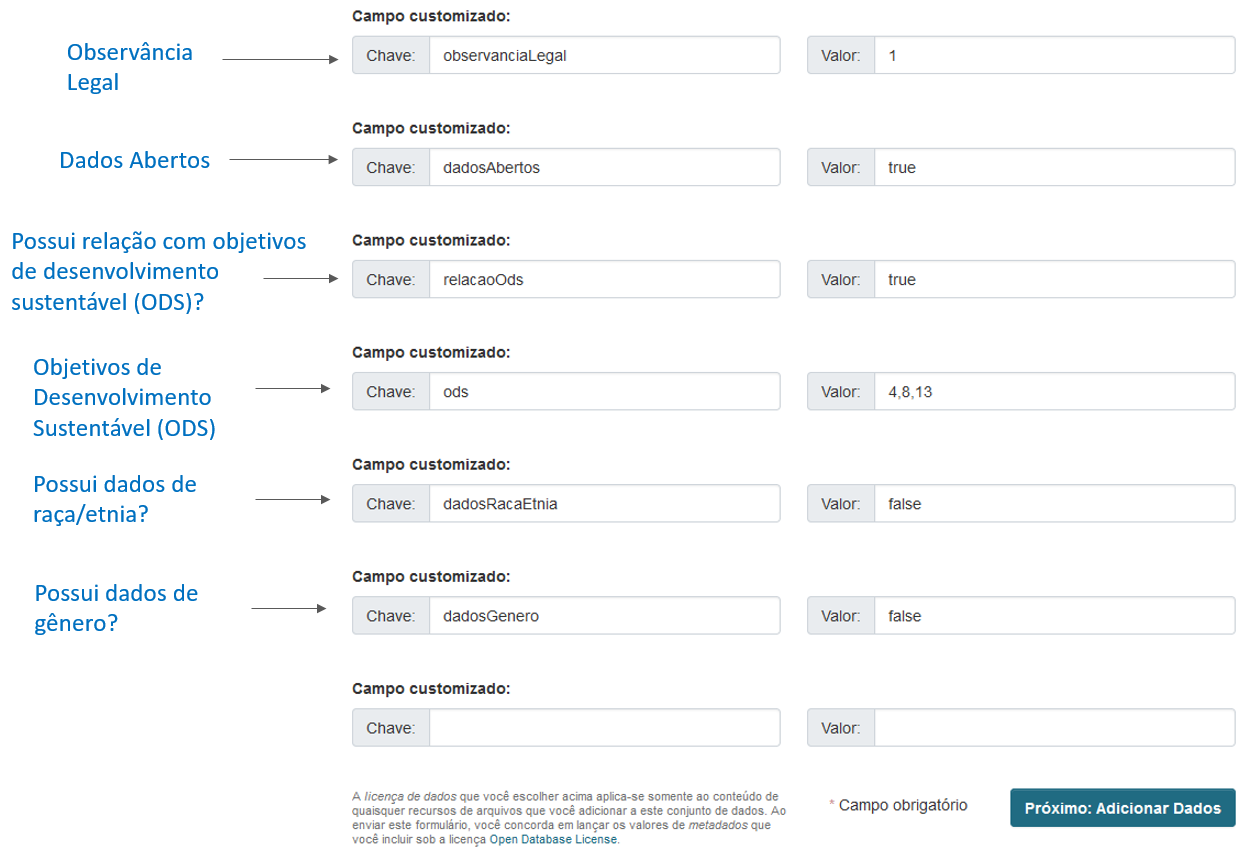
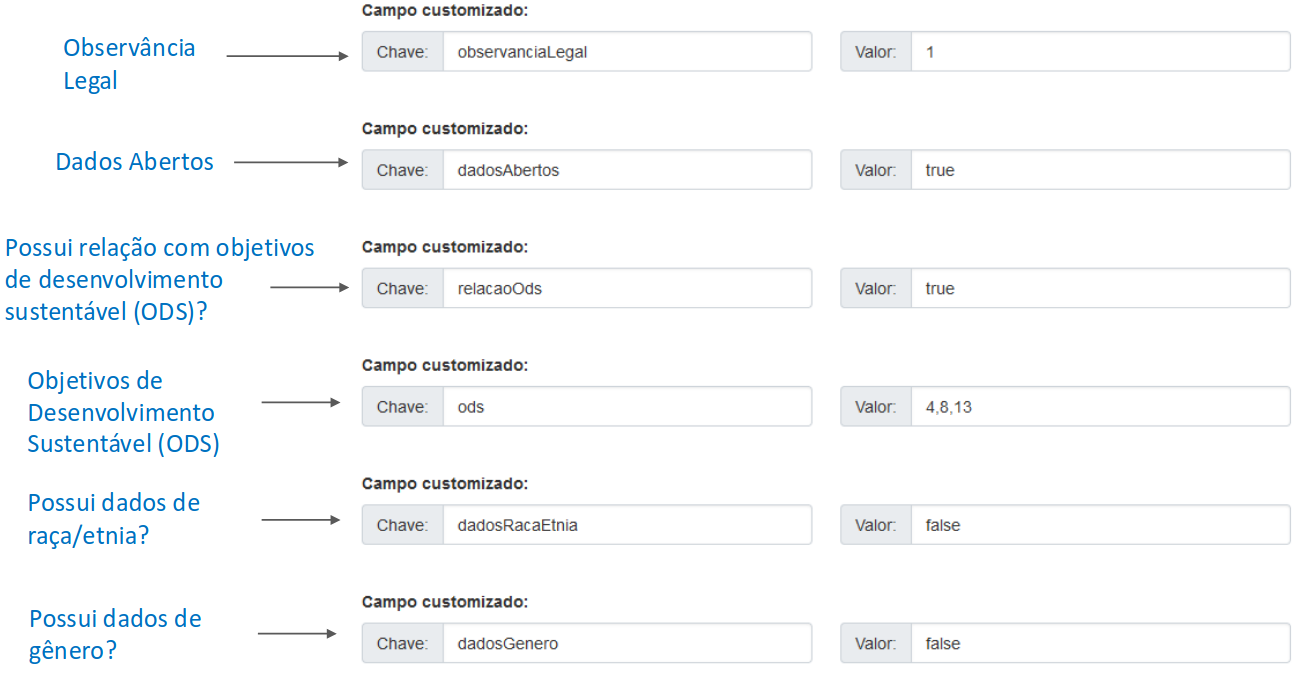
AB#31387 Atualiza documentação de preenchimento manual dos campos no CKAN

diff --git a/PREENCHIMENTO-CKAN.md b/PREENCHIMENTO-CKAN.md
@@ -128,11 +128,17 @@ Os campos devem ser preenchidos com chave e valor exatamente como explicados a s
     * FEDERAL
     * ESTADUAL
     * MUNICIPAL
+    * REGIAO_NORTE
+    * REGIAO_NORDESTE
+    * REGIAO_CENTRO_OESTE
+    * REGIAO_SUDESTE
+    * REGIAO_SUL
+    * INTERNACIONAL
 
 5. Detalhamento da Cobertura Espacial
 
 * Chave: valorCoberturaEspacial
-* Valores possíveis: caso a Cobertura Espacial seja Federal, não é necessário
+* Valores possíveis: caso a Cobertura Espacial seja federal ou regional, não é necessário
 preencher. Caso seja Estadual, preencher com a UF do estado a que se refere (Ex: GO).
 Caso seja Municipal, preencher com o código do município de 6 dígitos definido pelo IBGE (Ver https://www.ibge.gov.br/explica/codigos-dos-municipios.php).
 Notar que se o código tiver 7 dígitos o último é apenas um dígito de verificação e não precisa ser preenchido aqui.
@@ -142,6 +148,7 @@ Notar que se o código tiver 7 dígitos o último é apenas um dígito de verifi
 * Chave: granularidadeEspacial
 * Valores possíveis:
     * FEDERAL
+    * REGIAO
     * ESTADUAL
     * MUNICIPAL
 
@@ -253,6 +260,17 @@ Notar que se o código tiver 7 dígitos o último é apenas um dígito de verifi
     * true
     * false
 
+16. Idioma
+
+* Chave: idioma
+* Valores possíveis: um dos códigos de língua abaixo
+    * pt -> Português
+    * en -> Inglês
+    * es -> Espanhol
+    * fr -> Francês
+    * de -> Alemão
+    * it -> Italiano
+
 ### Formulário ilustrado
 
 As imagens a seguir mostram o formulário do CKAN indicando os campos que são tratados pelo Portal de Dados Abertos:
@@ -266,3 +284,5 @@ As imagens a seguir mostram o formulário do CKAN indicando os campos que são t
 ![Formulário CKAN - Parte 4](imagens/form-ckan-4.png)
 
 ![Formulário CKAN - Parte 5](imagens/form-ckan-5.png)
+
+![Formulário CKAN - Parte 6](imagens/form-ckan-6.png)
